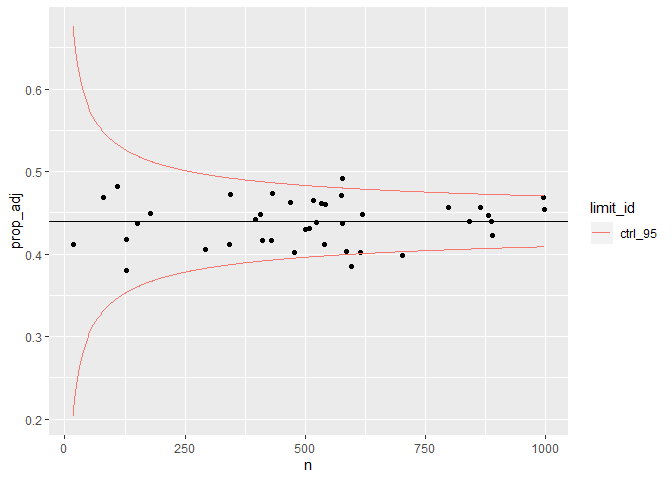
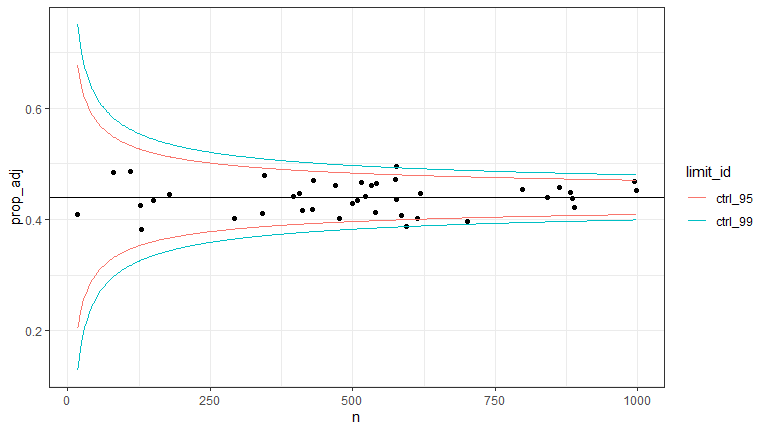
(i) add theme funnel (ii) update readme

diff --git a/README.md b/README.md
@@ -3,13 +3,14 @@
 
 # funnelplot
 
-<!-- badges: start --> 
-[![Travis build status](https://travis-ci.org/oizin/funnelplot.svg?branch=master)](https://travis-ci.org/oizin/funnelplot)
+<!-- badges: start --> [![Travis build
+status](https://travis-ci.org/oizin/funnelplot.svg?branch=master)](https://travis-ci.org/oizin/funnelplot)
 [![codecov](https://codecov.io/github/oizin/funnelplot/branch/master/graphs/badge.svg)](https://codecov.io/github/oizin/funnelplot)
 <!-- badges: end -->
 
 The goal of funnelplot is to simplify risk adjusted comparisons of
-institutional performance for the purpose of outlier discovery.
+institutional (cluster) performance for the purpose of outlier
+discovery.
 
 ## Installation
 
@@ -23,18 +24,54 @@ devtools::install_github("oizin/funnelplot")
 
 ## Example
 
-This is a basic example which shows you how to produce a funnel plot:
+This is a basic example which shows you how to produce a risk adjusted
+funnel plot with 95% and 99% control limits:
 
 ``` r
 library(funnelplot)
 data("example_data")
 
 # outcome ~ covariates | cluster ID
-f1 <- funnel(test ~ 1 | hosp_id, data = example_data)
-plot(f1)
+f1 <- funnel(test ~ age + gender | hosp_id, pointTarget(limits = c(0.05,0.01)), data = example_data)
+plot(f1) +
+  theme_funnel()
 ```
 
-<img src="man/figures/README-example-1.png" width="100%" />
+<img src="man/figures/README-example1-1.png" width="100%" />
+
+funnelplot supports:
+
+  - Covariate risk adjustment: control for differences in the
+    characteristics of observations within each cluster. This is done
+    through using a statistical model to calculate \(\hat{y}_{ij}\), an
+    estimate of the expected outcome for each observation, and cluster
+    level comparison of the observed and expected outcomes.  
+  - Multiplicity adjustment: control for potentially high false positive
+    rates in the comparison of large numbers of clusters.  
+  - Overdispersion: In situations where there is large variation in
+    performance between the clusters, and the outcome cannot be
+    reliabilty predicted, one approach to avoiding labelling a large
+    number of clusters as outliers is to adjust the control limits
+    outward by an *inflation factor* (e.g. 20%). The *inflation factor*
+    can be estimated using the data, with the ability to leave a certain
+    percentage of the best and worst performing clusters left out of the
+    calculation.
+
+All objects returned by `funnelplot::plot()` are
+[ggplot2](https://ggplot2.tidyverse.org/) objects enabling further
+customisation:
+
+``` r
+library(ggplot2)
+plot(f1) +
+  labs(x = "Number of patients", y = "Performed test (%)", title = "Hospital performance (2018)", 
+       subtitle = "Adjusted for patient age and gender") +
+  scale_y_continuous(breaks = seq(0.2,0.6,0.2),labels = 100*seq(0.2,0.6,0.2)) +
+  scale_color_discrete(name = "Control limit", labels = c(0.95,0.99)) +
+  theme_grey()
+```
+
+<img src="man/figures/README-example2-1.png" width="100%" />
 
 See the vignettes:
 
